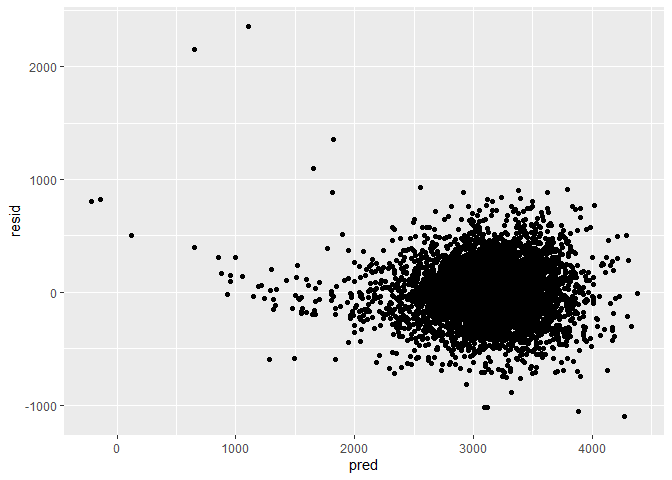
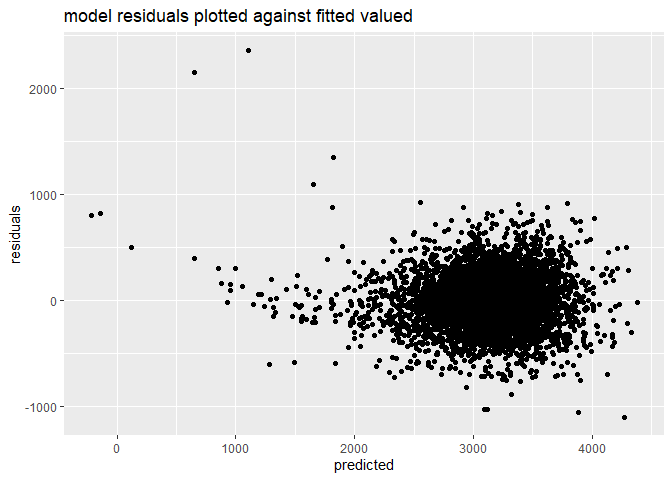
added rmse distributions and additional explanations

diff --git a/p8105_hw6_dtw2127.md b/p8105_hw6_dtw2127.md
@@ -31,14 +31,24 @@ birthweight = read_csv("./data/birthweight.csv") %>%
     ## i Use `spec()` to retrieve the full column specification for this data.
     ## i Specify the column types or set `show_col_types = FALSE` to quiet this message.
 
-We’ll use a combination of the knowledge base on factors associated with
-birth weight and a data-driven process to develop a model for birth
-weight.
-
 According to the literature, maternal race, maternal age, mother’s
 weight, infant sex, parity, gestational weeks, and smoking all appear to
-impact birth weight. We would also expect baby’s head circumference,
-baby length to be associated with birth weight.
+impact birth weight.
+
+We’ll use a combination of the knowledge base on factors associated with
+birth weight and a data-driven process to develop a model for birth
+weight. Let’s start with a backwards selection process.
+
+``` r
+library(MASS)
+```
+
+    ## 
+    ## Attaching package: 'MASS'
+
+    ## The following object is masked from 'package:dplyr':
+    ## 
+    ##     select
 
 ``` r
 full.model <- lm(bwt  ~., data = birthweight)
@@ -85,10 +95,11 @@ fit = lm(bwt ~ babysex + bhead + blength + delwt + fincome +
     gaweeks + mheight + mrace + parity + ppwt + smoken, data = birthweight)
 ```
 
-The model generated by stepwise selection includes many of the factors
-that have been identified in the literature (race, infant sex, parity,
-gestational weeks, maternal weight, and smoking). Additionally, head
-circumference, length, income, and height are included in the model.
+The model generated by backwards selection includes many of the factors
+that have been identified in the literature to be associated with
+birthweight (race, infant sex, parity, gestational weeks, maternal
+weight, and smoking). Additionally, baby’s head circumference and
+length, and income, and mother’s height are also included in the model.
 
 Let’s use the broom package to get a quick summary of the model and to
 clean up the coefficient table.
@@ -134,18 +145,30 @@ add_predictions and add_residuals.
 birthweight %>%
   add_residuals(fit) %>% 
   add_predictions(fit) %>% 
-  ggplot(aes(x = pred, y = resid)) + geom_point()
+  ggplot(aes(x = pred, y = resid)) +
+  geom_point() + 
+  labs(x = "predicted",
+       y = "residuals",
+       title = "model residuals plotted against fitted valued")
 ```
 
 ![](p8105_hw6_dtw2127_files/figure-gfm/unnamed-chunk-4-1.png)<!-- -->
+
+Most of our observations are clustered around birthweights between 2500
+and 4000. The residuals for birthweights in this range appear to be
+randomly distributed. For lower birthweights, there appears to be a bit
+of a trend of increasing residuals as predicted birthweight decreases,
+but there also aren’t very many observations available for lower
+birthweights.
+
 Let’s compare our model to 1) a model using length at birth and
-gestational age as predictors 2) a model using head circumference,
-length, sex and all interactions between these.
+gestational age as predictors (we’ll call this the main effects model)
+and 2) a model using head circumference, length, sex and all
+interactions between these (we’ll call this the interactions model).
 
 ``` r
-fit1 = lm(bwt ~ blength + gaweeks, data = birthweight)
-
-fit2 = lm(bwt ~ bhead + blength + babysex + bhead:blength + bhead:babysex + blength:babysex + bhead:blength:babysex, data = birthweight) #check that the interaction terms were added correctly
+fit_main = lm(bwt ~ blength + gaweeks, data = birthweight)
+fit_interaction = lm(bwt ~ bhead + blength + babysex + bhead:blength + bhead:babysex + blength:babysex + bhead:blength:babysex, data = birthweight)
 ```
 
 We’ll use cross validation to compare our model to these two other
@@ -160,7 +183,7 @@ testing dataset.
 birthweight = birthweight %>%
   mutate(ID = row_number())
 
-train_df = sample_n(birthweight, 3474)
+train_df = sample_n(birthweight, 0.8*nrow(birthweight)) #80% data for training df
 test_df = anti_join(birthweight, train_df, by = "ID")
 ```
 
@@ -175,7 +198,7 @@ ggplot(train_df, aes(x = blength, y = bwt)) +
 
 ![](p8105_hw6_dtw2127_files/figure-gfm/unnamed-chunk-7-1.png)<!-- -->
 
-The distributions are similar.
+The test and training data distributions are similar.
 
 We’ll fit three models to the training data.
 
@@ -183,9 +206,9 @@ We’ll fit three models to the training data.
 my_model = lm(bwt ~ babysex + bhead + blength + delwt + fincome + 
     gaweeks + mheight + mrace + parity + ppwt + smoken, data = train_df)
 
-model1 = lm(bwt ~ blength + gaweeks, data = train_df)
+model_main_effects = lm(bwt ~ blength + gaweeks, data = train_df)
 
-model2 = lm(bwt ~ bhead + blength + babysex + bhead:blength + bhead:babysex + blength:babysex + bhead:blength:babysex, data = train_df)
+model_interactions = lm(bwt ~ bhead + blength + babysex + bhead:blength + bhead:babysex + blength:babysex + bhead:blength:babysex, data = train_df)
 ```
 
 Next let’s compute root mean squared errors (RMSEs).
@@ -194,30 +217,29 @@ Next let’s compute root mean squared errors (RMSEs).
 rmse(my_model, test_df)
 ```
 
-    ## [1] 299.5367
+    ## [1] 264.8542
 
 ``` r
-rmse(model1, test_df)
+rmse(model_main_effects, test_df)
 ```
 
-    ## [1] 335.0895
+    ## [1] 318.5849
 
 ``` r
-rmse(model2, test_df)
+rmse(model_interactions, test_df)
 ```
 
-    ## [1] 314.2211
+    ## [1] 276.7879
 
 Based off the RMSEs, it suggests that my_model works the best.
 
 We’ll iterate this process so that we can be more certain which model is
-best. Let’s create many training and testing datasets. We’ll then fit
+best. Let’s create 100 training and testing datasets. We’ll then fit
 models and obtain RMSEs.
 
 ``` r
 cv_df = 
   crossv_mc(birthweight, 100) #create 100 training sets. default is 80/20 training/test split. 
-
 cv_df = 
   cv_df %>% 
   mutate(
@@ -227,32 +249,25 @@ cv_df =
   mutate(
     rmse_my_model = map2_dbl(my_model, test, ~rmse(model = .x, data = .y))
     )
-```
-
-    ## Warning in predict.lm(model, data): prediction from a rank-deficient fit may be
-    ## misleading
-
-``` r
 cv_df = 
   cv_df %>% 
   mutate(
-    model1 = map(.x = train, ~lm(bwt ~ blength + gaweeks, data = .x))
+    model_main_effects = map(.x = train, ~lm(bwt ~ blength + gaweeks, data = .x))
     ) %>% 
   mutate(
-    rmse_model1 = map2_dbl(model1, test, ~rmse(model = .x, data = .y))
+    rmse_model_main_effects = map2_dbl(model_main_effects, test, ~rmse(model = .x, data = .y))
     )
-
 cv_df = 
   cv_df %>% 
   mutate(
-    model2 = map(.x = train, ~lm(bwt ~ bhead + blength + babysex + bhead:blength + bhead:babysex + blength:babysex + bhead:blength:babysex, data = .x))
+    model_interactions = map(.x = train, ~lm(bwt ~ bhead + blength + babysex + bhead:blength + bhead:babysex + blength:babysex + bhead:blength:babysex, data = .x))
     ) %>% 
   mutate(
-    rmse_model2 = map2_dbl(model2, test, ~rmse(model = .x, data = .y))
+    rmse_model_interactions = map2_dbl(model_interactions, test, ~rmse(model = .x, data = .y))
     )
 ```
 
-Let’s plot the prediction error distribution for each of the three
+Let’s plot the prediction error distributions for each of the three
 models.
 
 ``` r
@@ -269,8 +284,10 @@ cv_df %>%
 
 ![](p8105_hw6_dtw2127_files/figure-gfm/unnamed-chunk-11-1.png)<!-- -->
 
-Based on these plots, it appears that my_model is the best, followed by
-model2.
+Based on these plots, it appears that my_model is the best (as it has
+the smallest rmse values), followed by the model with interaction terms.
+The main effects only model has the highest rmse values and widest
+distribution.
 
 ## Problem 2
 
@@ -300,18 +317,22 @@ weather_df =
 
     ## file min/max dates: 1869-01-01 / 2021-10-31
 
-We’ll use 5000 bootstrap samples to generate estimates for r2_hat and
-log(B0_hat and B1_hat).
+We will be focusing on a simple linear regression with tmax as the
+response variable and tmin as the predictor.
 
 ``` r
 model = lm(tmax~tmin, data = weather_df) %>% 
   broom::glance()
 ```
 
+We are interested in the distribution of r2hat and log(B0hatB1hat).
+We’ll use 5000 bootstrap samples to generate estimates for r2hat and
+log(B0hatB1hat). Let’s start with r2hat.
+
 ``` r
-boot_straps_r_squared = 
+boot_straps_r2 = 
   weather_df %>% 
-  modelr::bootstrap(n = 5) %>% 
+  modelr::bootstrap(n = 5000) %>% 
   mutate(
     models = map(strap, ~lm(tmax ~ tmin, data = .x) ),
     results = map(models, broom::glance)) %>% 
@@ -320,33 +341,86 @@ boot_straps_r_squared =
   summarize(ci_lower = quantile(r.squared, 0.025),
             ci_upper = quantile(r.squared, 0.975)) 
 
-print(boot_straps_r_squared)
+print(boot_straps_r2)
 ```
 
     ## # A tibble: 1 x 2
     ##   ci_lower ci_upper
     ##      <dbl>    <dbl>
-    ## 1    0.890    0.918
+    ## 1    0.894    0.927
+
+The 95% confidence interval for r2hat is (0.89, 0.93).
+
+Let’s plot the distribution of r2hat.
+
+``` r
+  weather_df %>% 
+  modelr::bootstrap(n = 5000) %>% 
+  mutate(
+    models = map(strap, ~lm(tmax ~ tmin, data = .x) ),
+    results = map(models, broom::glance)) %>% 
+  dplyr::select(-strap, -models) %>% 
+  unnest(results) %>% 
+  ggplot(aes(x = r.squared)) + 
+  geom_density() + 
+  labs(x = "r squared estimates",
+       title = "distribution of bootstrapped r squared estimates")
+```
+
+![](p8105_hw6_dtw2127_files/figure-gfm/unnamed-chunk-15-1.png)<!-- -->
+
+The distribution for r squared estimates is approximately normal, but is
+left skewed which may be related to the frequency of outliers getting
+included in the bootstrap samples.
+
+Let’s generate bootstrap estimates for log(B0hat\*B1hat).
 
 ``` r
 boot_straps_logb0b1 = 
   weather_df %>% 
-  modelr::bootstrap(n = 5) %>% 
+  modelr::bootstrap(n = 5000) %>% 
   mutate(
-    models = map(strap, ~lm(tmax ~ tmin, data = .x) ),
+    models = map(strap, ~lm(tmax ~ tmin, data = .x)),
     results = map(models, broom::tidy)) %>% 
   dplyr::select(-strap, -models) %>% 
   unnest(results) %>% 
   mutate(log_estimate = log(estimate)) %>% 
   group_by(.id) %>% 
-  summarize(logb0b1 = prod(log_estimate)) %>% 
+  summarize(logb0b1 = sum(log_estimate)) %>% 
   summarize(ci_lower = quantile(logb0b1, 0.025),
             ci_upper = quantile(logb0b1, 0.975))
-
 print(boot_straps_logb0b1)
 ```
 
     ## # A tibble: 1 x 2
     ##   ci_lower ci_upper
     ##      <dbl>    <dbl>
-    ## 1   0.0506    0.102
+    ## 1     1.97     2.06
+
+The 95% confidence interval for log(B0hat\*B1hat) is (1.96, 2.06).
+
+Let’s check the distribution of the log(B0\*B1) estimates.
+
+``` r
+  weather_df %>% 
+  modelr::bootstrap(n = 5000) %>% 
+  mutate(
+    models = map(strap, ~lm(tmax ~ tmin, data = .x)),
+    results = map(models, broom::tidy)) %>% 
+  dplyr::select(-strap, -models) %>% 
+  unnest(results) %>% 
+  mutate(log_estimate = log(estimate)) %>% 
+  group_by(.id) %>% 
+  summarize(logb0b1 = sum(log_estimate)) %>% 
+  ggplot(aes(x = logb0b1)) + 
+  geom_density() + 
+  labs(x = "logB0B1 estimates",
+       title = "distribution of bootstrapped log(B0B1) estimates")
+```
+
+![](p8105_hw6_dtw2127_files/figure-gfm/unnamed-chunk-17-1.png)<!-- -->
+
+The distribution for for log(B0hat\*B1hat) is similar to the r2hat
+distribution. It is approximately normal, but also a bit left skewed
+which again, may be related to the frequency of outliers getting
+included in the bootstrap samples.
